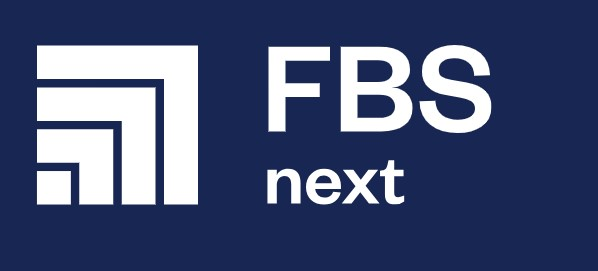
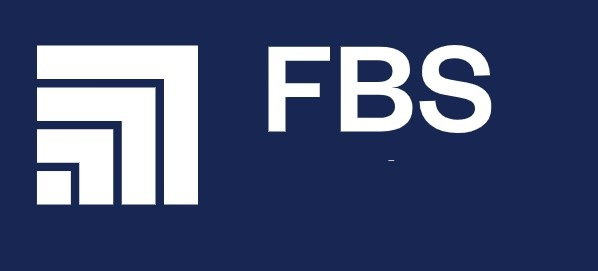
new

Changed region(s): [[0.4214, 0.5904, 0.6923, 0.7675]]

diff --git a/app.py b/app.py
@@ -11,7 +11,7 @@ import time
 
 st.set_page_config(
                     page_title="FBS - Richieste Fascicoli",
-                    page_icon=Image.open("img/FBS_logo.png"),
+                    page_icon=Image.open("img/FBS.jpg"),
                     )
 
 st.markdown("""
@@ -254,7 +254,7 @@ def save_prenotazione(prenotazioni: pd.DataFrame, new_prenotazione: Dict) -> pd.
 def render_login_page():
     st.title('Login Richieste Fascicoli')
     try:
-        logo = Image.open('img/FBS_logo.jpg')
+        logo = Image.open('img/FBS.jpg')
         st.image(logo, width=600)
     except Exception:
         st.warning("Logo non trovato")
